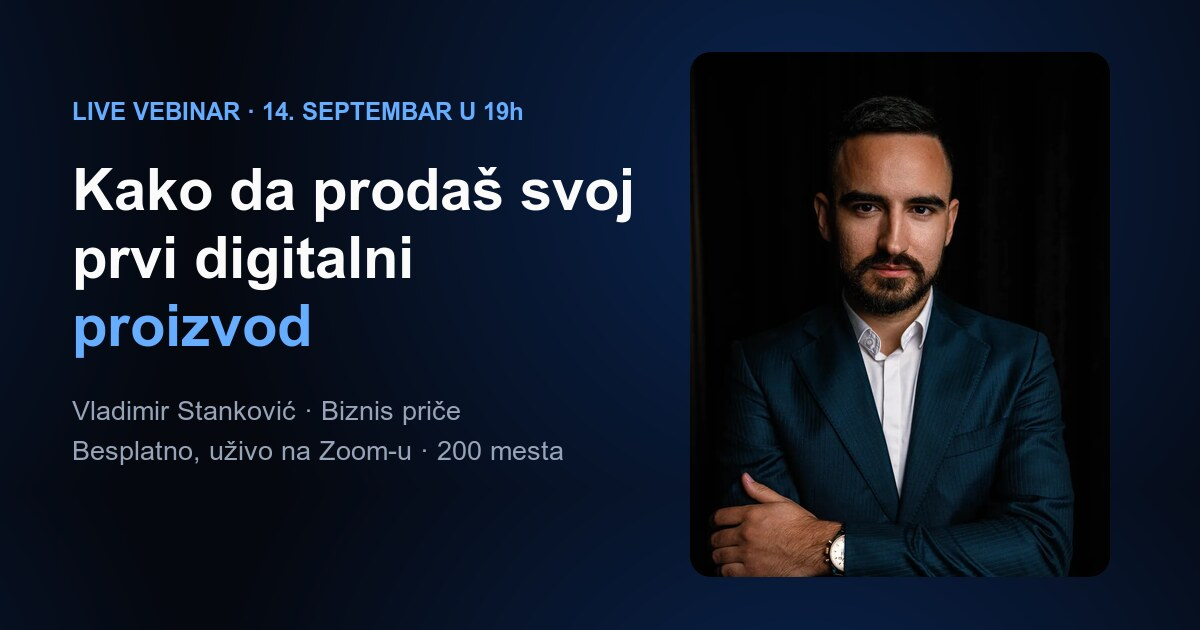
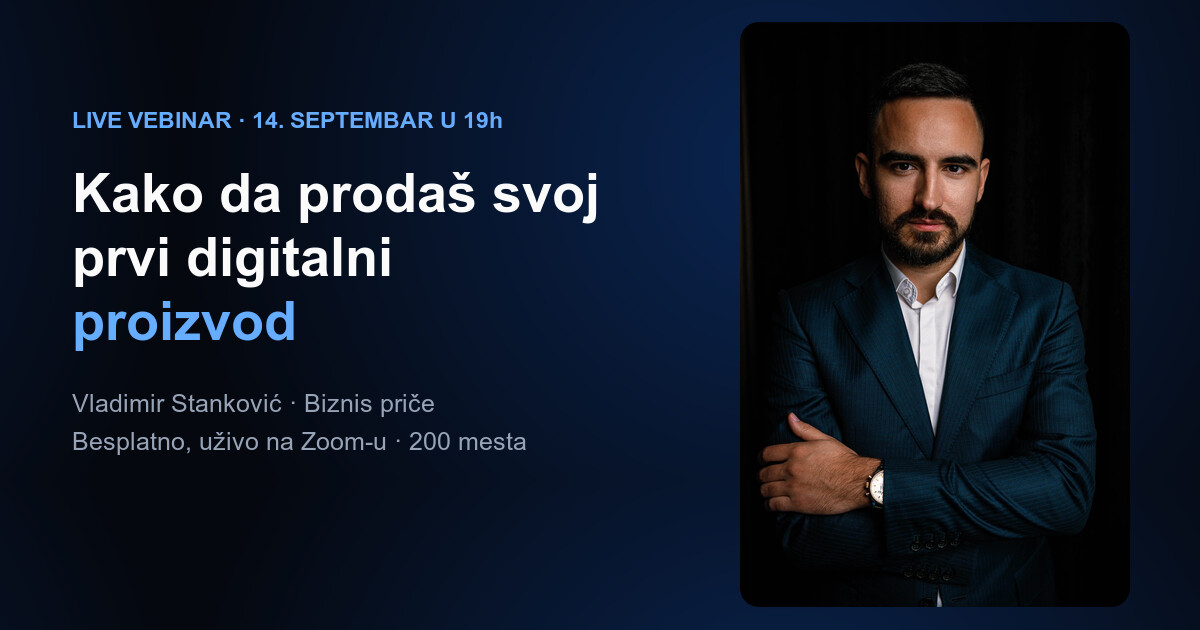
Popravi fotografiju voditelja i privremeno sakrij sekciju rezultata
- fotografija koristi pun kadar 2:3 umesto kropovanog 4:5 (ranije su
  ruke i sat bili odsecen na dnu, ramena su dodirivala ivice)
- vece rezolucije i kvalitet: 840x1260 + 560x840, q90 (tamna pozadina
  je na q82 pravila bendovanje)
- CSS aspect-ratio 2/3 da okvir odgovara slici, bez dodatnog kropa
- og-image pregeneisan sa istim punim kadrom
- putanje do asseta su relativne, pa preview radi i lokalno preko file://
- sekcija "rezultati" sakrivena atributom `hidden` do pravih screenshotova

diff --git a/index.html b/index.html
@@ -27,12 +27,12 @@
 <meta name="twitter:image" content="https://vebinar.vladsdigital.com/assets/img/og-image.jpg">
 
 <meta name="theme-color" content="#05080F">
-<link rel="icon" href="/assets/img/favicon.svg" type="image/svg+xml">
+<link rel="icon" href="assets/img/favicon.svg" type="image/svg+xml">
 
 <link rel="preconnect" href="https://fonts.googleapis.com">
 <link rel="preconnect" href="https://fonts.gstatic.com" crossorigin>
 <link href="https://fonts.googleapis.com/css2?family=Geist:wght@400;500;600;700;800;900&display=swap" rel="stylesheet">
-<link rel="stylesheet" href="/assets/css/style.css">
+<link rel="stylesheet" href="assets/css/style.css">
 </head>
 <body>
 
@@ -164,10 +164,10 @@
     <h2 class="rv">Ko drži vebinar</h2>
     <div class="voditelj">
       <img class="foto rv"
-           src="/assets/img/vladimir-stankovic.webp"
-           srcset="/assets/img/vladimir-stankovic-400.webp 400w, /assets/img/vladimir-stankovic.webp 800w"
+           src="assets/img/vladimir-stankovic.webp"
+           srcset="assets/img/vladimir-stankovic-560.webp 560w, assets/img/vladimir-stankovic.webp 840w"
            sizes="(max-width: 680px) 280px, 260px"
-           width="800" height="1000" loading="lazy" decoding="async"
+           width="840" height="1260" loading="lazy" decoding="async"
            alt="Vladimir Stanković, voditelj vebinara">
       <div class="bio">
         <p class="rv"><strong>Vladimir Stanković</strong> je digitalni preduzetnik i edukator, autor i voditelj podkasta <strong>Biznis priče</strong>, jednog od najslušanijih biznis podkasta u regionu, kroz koji su prošle stotine preduzetnika, od početnika do vlasnika kompanija sa višedecenijskim iskustvom.</p>
@@ -184,26 +184,27 @@
 </section>
 
 <!-- ============ DOKAZI / REZULTATI ============ -->
-<section class="blok">
+<!-- PRIVREMENO SAKRIVENO: obrisi atribut `hidden` ispod kada ubacis prave screenshotove. -->
+<section class="blok" hidden>
   <div class="wrap">
     <h2 class="rv">Ovo nije teorija. <span class="naglasak">Ovo su rezultati.</span></h2>
     <p class="uvodna rv">Ovako izgledaju stvarne prodaje digitalnih proizvoda i funneli koji rade i kada ti ne radiš.</p>
     <!-- SLIKE DOKAZA: zameni src pravim screenshotovima iz assets/img/ -->
     <div class="dokazi-mreza">
       <figure class="rv">
-        <img src="/assets/img/placeholder-rezultat-1.svg" width="640" height="400" loading="lazy" decoding="async" alt="Prikaz prodaja digitalnog proizvoda">
+        <img src="assets/img/placeholder-rezultat-1.svg" width="640" height="400" loading="lazy" decoding="async" alt="Prikaz prodaja digitalnog proizvoda">
         <figcaption>Prodaje digitalnog proizvoda</figcaption>
       </figure>
       <figure class="rv">
-        <img src="/assets/img/placeholder-rezultat-2.svg" width="640" height="400" loading="lazy" decoding="async" alt="Prikaz rasta prodaje kroz funnel">
+        <img src="assets/img/placeholder-rezultat-2.svg" width="640" height="400" loading="lazy" decoding="async" alt="Prikaz rasta prodaje kroz funnel">
         <figcaption>Funnel koji radi automatski</figcaption>
       </figure>
       <figure class="rv">
-        <img src="/assets/img/placeholder-rezultat-3.svg" width="640" height="400" loading="lazy" decoding="async" alt="Prikaz rezultata lansiranja">
+        <img src="assets/img/placeholder-rezultat-3.svg" width="640" height="400" loading="lazy" decoding="async" alt="Prikaz rezultata lansiranja">
         <figcaption>Rezultati lansiranja</figcaption>
       </figure>
       <figure class="rv">
-        <img src="/assets/img/placeholder-rezultat-4.svg" width="640" height="400" loading="lazy" decoding="async" alt="Prikaz prihoda od digitalnih proizvoda">
+        <img src="assets/img/placeholder-rezultat-4.svg" width="640" height="400" loading="lazy" decoding="async" alt="Prikaz prihoda od digitalnih proizvoda">
         <figcaption>Prihod od digitalnih proizvoda</figcaption>
       </figure>
     </div>
@@ -318,6 +319,6 @@
 }
 </script>
 
-<script src="/assets/js/main.js" defer></script>
+<script src="assets/js/main.js" defer></script>
 </body>
 </html>

diff --git a/assets/css/style.css b/assets/css/style.css
@@ -332,9 +332,8 @@ section.blok .uvodna { margin-top: 14px; color: var(--muted); max-width: 58ch; }
 }
 .voditelj .foto {
   width: 100%;
-  aspect-ratio: 4 / 5;
+  aspect-ratio: 2 / 3;
   object-fit: cover;
-  object-position: 50% 22%;
   border-radius: 16px;
   border: 1px solid var(--line-strong);
   box-shadow: 0 0 40px rgba(20,102,232,0.2);
